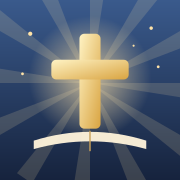
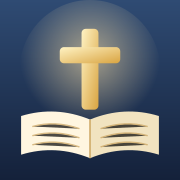
홈 화면 아이콘을 펼친 성경과 십자가로 변경

diff --git a/index.html b/index.html
@@ -4,8 +4,8 @@
 <meta charset="utf-8">
 <meta name="viewport" content="width=device-width, initial-scale=1">
 <title>찬송가 퀴즈</title>
-<link rel="icon" type="image/png" href="icons/icon-192.png">
-<link rel="apple-touch-icon" href="icons/apple-touch-icon.png">
+<link rel="icon" type="image/png" href="icons/icon-192.png?v=2">
+<link rel="apple-touch-icon" href="icons/apple-touch-icon.png?v=2">
 <link rel="manifest" href="manifest.webmanifest">
 <meta name="theme-color" content="#24385c">
 <meta name="apple-mobile-web-app-capable" content="yes">

diff --git a/src/template.html b/src/template.html
@@ -4,8 +4,8 @@
 <meta charset="utf-8">
 <meta name="viewport" content="width=device-width, initial-scale=1">
 <title>찬송가 퀴즈</title>
-<link rel="icon" type="image/png" href="icons/icon-192.png">
-<link rel="apple-touch-icon" href="icons/apple-touch-icon.png">
+<link rel="icon" type="image/png" href="icons/icon-192.png?v=2">
+<link rel="apple-touch-icon" href="icons/apple-touch-icon.png?v=2">
 <link rel="manifest" href="manifest.webmanifest">
 <meta name="theme-color" content="#24385c">
 <meta name="apple-mobile-web-app-capable" content="yes">
